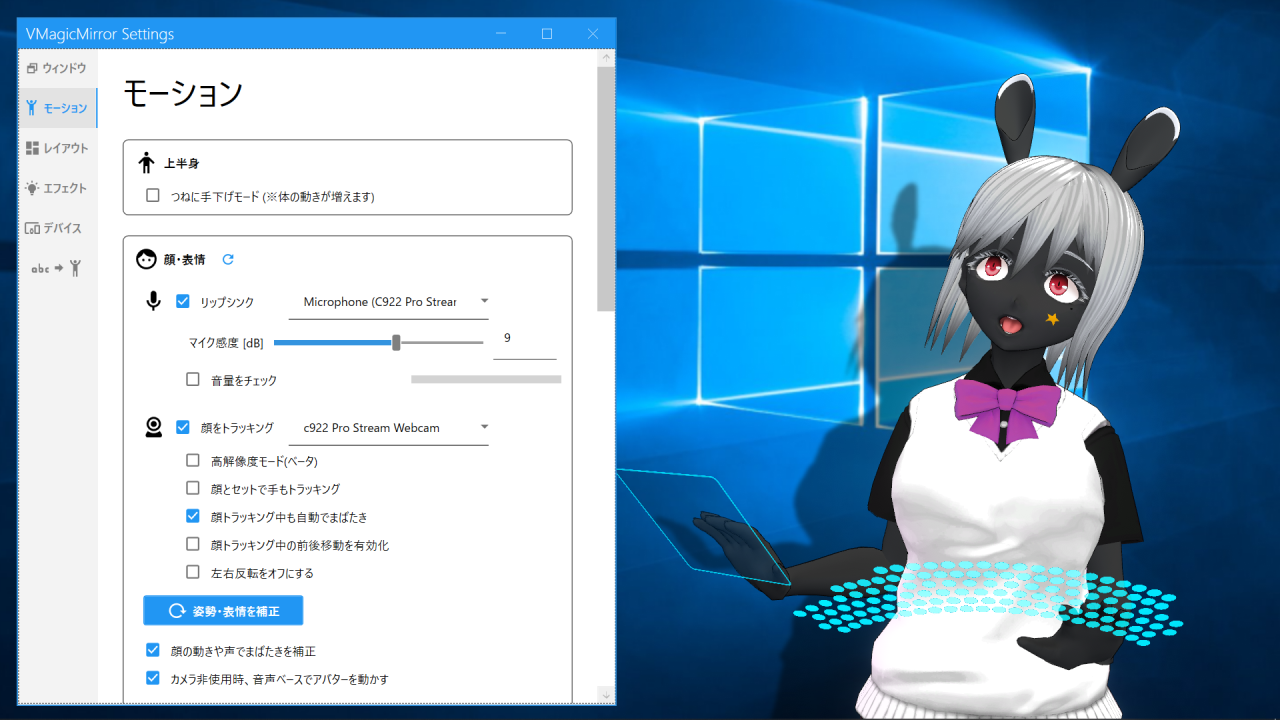
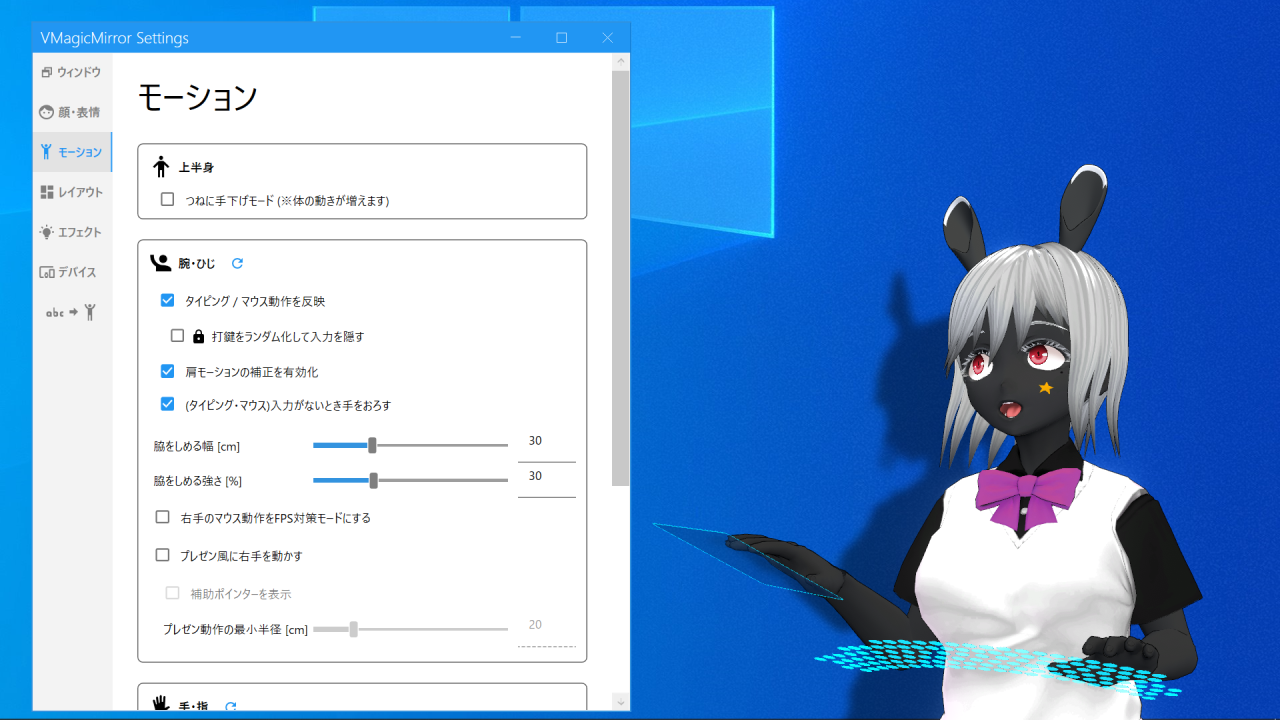
add doc for "face" tab

diff --git a/docs/pages/japanese/docs/motion.md b/docs/pages/japanese/docs/motion.md
@@ -12,54 +12,18 @@ permalink: /docs/motion
 
 {% include docimg.html file="/images/docs/motion_top.png" %}
 
+<div class="note-area" markdown="1">
+
+**NOTE**
+
+v1.6.0以前をお使いの場合、`顔・表情`のメニューから顔に関する設定を編集できます。このメニューの内容については別途[顔・表情](./face)ページをご覧下さい。
+
+</div>
+
 #### 上半身
 {: .doc-sec2 }
 
 `つねに手下げモード`: オンになっていると、腕がつねに下がり、体の動きが大きくなります。`配信`タブにあるのものと同じ機能です。
-
-#### 顔・表情
-{: .doc-sec2 }
-
-`リップシンク`: リップシンク機能に用いるマイクを設定します。コントロールパネルのタブにもある機能です。
-
-`マイク感度[dB]`: マイク入力が小さすぎる場合はプラスの値を指定することで、リップシンクが正しく動作するようになります。`音量をチェック`を使って適正な感度か確認して下さい。
-
-`音量をチェック`: オンにするとマイク音量バーが表示されます。喋っているあいだ、ほぼ緑色で、ときどき赤色になるのが適正な音量です。
-
-`顔をトラッキング`: ウェブカメラによる顔トラッキングに用いるカメラを設定します。コントロールパネルの配信タブにもある機能です。
-
-`高解像度モード`: CPU負荷が上がる代わり、ややトラッキングの反応速度が向上します。v1.5.0時点ではベータ版の、試験的な機能です。
-
-`顔とセットで手もトラッキング`: ウェブカメラによる簡易的なハンドトラッキングを有効にします。コントロールパネルの配信タブにもある機能です。
-
-`顔トラッキング中も自動でまばたき`: デフォルトではオンになっています。オフにすると、画像処理ベースで目の開閉を制御するようになります。
-
-`顔トラッキング中の前後移動を有効化`: オンにすると、キャラクターが前後に動くようになります。顔トラッキングが安定している場合、このチェックをオンにするとキャラクターの動きが更にリッチになります。
-
-`左右反転をオフにする`: チェックボックをオンにすると左右の反転がオフになります。このオプションを切り替えた場合は`姿勢・表情を補正`ボタンを押すようにして下さい。
-
-`姿勢・表情を補正`: 押すことで現在のカメラに映っている姿勢でキャリブレーションします。コントロールパネルの配信タブにもある機能です。
-
-`顔の動きや声でまばたき補正`: 自動まばたきが有効なときにこのチェックをオンにすると、首をすばやく動かしたときや、発話の区切り目にあわせて高確率でまばたき行う、自然な補正が適用されます。
-
-`カメラ非使用時、音声ベースでアバターを動かす`: webカメラもiOS連携も使用していないとき、このチェックをオンにすると、マイクでの音声入力に合わせてアバターがそれらしく動きます。カメラのない環境や、PC負荷を抑えたいケースで使用します。
-
-`視線の動き`: 視線をどう動かすか選択します。コントロールパネルの配信タブにもある機能です。`マウス`を選択すると、キャラクターがマウスポインターの方向を見つめます。`固定`ではマウスを無視し、基本的に正面を向きます。`ユーザー`選択は`固定`に似ていますが、`フリーカメラモード`でキャラクターの向きを正面向き以外にしたときも、なるべくモニターの正面方向(つまりあなた自身)を見つめるように動きます。
-
-`目の動きの大きさ[%]`: マウス追尾などで視線を動かすときの、眼球運動のスケールを設定します。VRoidモデルではデフォルト値(100%)を推奨しています。目ボーンがあるにもかかわらずモデルの目が動かない場合、大きめの値に調整してください。
-
-`Funブレンドのデフォルト値[%]`: ふだんの表情に`Fun`ブレンドシェイプを適用することで、やや笑顔の状態にするパラメータです。大きくするほど普段から笑顔になりますが、キャラクターによってはまばたきやリップシンクの動作と組み合わせたとき不自然になります。その場合は小さな値にします。
-
-`眉毛(開いてカスタマイズ)`: この機能はv1.5.0で廃止された機能です。通常はカスタム不要な、高度な設定です。独自に作成したVRMで眉毛をうまく動かしたい場合や、眉毛の動きが大きすぎたり、小さすぎたりする場合にカスタマイズします。
-
-※ここをカスタマイズするにはVRMの表情を操作する「ブレンドシェイプ」の知識が必要です。もし詳しくない場合、[バーチャルキャストWikiの説明](https://virtualcast.jp/wiki/doku.php?id=%E3%83%A2%E3%83%87%E3%83%AB%E4%BD%9C%E6%88%90:%E3%83%96%E3%83%AC%E3%83%B3%E3%83%89%E3%82%B7%E3%82%A7%E3%82%A4%E3%83%97%E8%A8%AD%E5%AE%9A)に記載の`ブレンドシェイプの値設定`などをご覧下さい。
-
-1. `左眉上げ`: 左眉、あるいは両方の眉を上げるブレンドシェイプを指定します。
-2. `左眉下げ`: 左眉、あるいは両方の眉を下げるブレンドシェイプを指定します。
-3. `左右で別々のキーを使う`: 右と左の眉が別々に動かせるモデルの場合、チェックをオンにします。
-4. `右眉上げ`: 右眉を上げるブレンドシェイプを指定します。
-5. `右眉下げ`: 右眉を下げるブレンドシェイプを指定します。
-6. `眉上げスケール [%]`と`眉下げスケール [%]`: 眉の上下の動きの大きさです。誇張したい場合は大きめの値を、大きくしすぎると不自然になる場合は小さめの値を指定します。
 
 #### 腕・ひじ
 {: .doc-sec2 }

diff --git a/docs/pages/japanese/docs/face.md b/docs/pages/japanese/docs/face.md
@@ -1,0 +1,67 @@
+---
+layout: page
+title: Face
+permalink: /docs/face
+---
+
+[English](../en/docs/face)
+
+# 顔・表情
+
+`顔・表情`タブではモーションのうち、とくに顔に関連する調整ができます。
+
+{% include docimg.html file="/images/docs/face_top.png" %}
+
+<div class="note-area" markdown="1">
+
+**NOTE**
+
+このタブはv1.6.1で追加されました。それ以前のバージョンでは、`モーション`タブで顔に関するモーションが設定できます。
+
+</div>
+
+
+#### 基本の設定
+{: .doc-sec2 }
+
+`リップシンク`: リップシンク機能に用いるマイクを設定します。コントロールパネルのタブにもある機能です。
+
+`マイク感度[dB]`: マイク入力が小さすぎる場合はプラスの値を指定することで、リップシンクが正しく動作するようになります。`音量をチェック`を使って適正な感度か確認して下さい。
+
+`音量をチェック`: オンにするとマイク音量バーが表示されます。喋っているあいだ、ほぼ緑色で、ときどき赤色になるのが適正な音量です。
+
+`顔をトラッキング`: ウェブカメラによる顔トラッキングに用いるカメラを設定します。コントロールパネルの配信タブにもある機能です。
+
+`高解像度モード`: CPU負荷が上がる代わり、ややトラッキングの反応速度が向上します。v1.5.0時点ではベータ版の、試験的な機能です。
+
+`顔とセットで手もトラッキング`: ウェブカメラによる簡易的なハンドトラッキングを有効にします。コントロールパネルの配信タブにもある機能です。
+
+`顔トラッキング中も自動でまばたき`: デフォルトではオンになっています。オフにすると、画像処理ベースで目の開閉を制御するようになります。
+
+`顔トラッキング中の前後移動を有効化`: オンにすると、キャラクターが前後に動くようになります。顔トラッキングが安定している場合、このチェックをオンにするとキャラクターの動きが更にリッチになります。
+
+`左右反転をオフにする`: チェックボックをオンにすると左右の反転がオフになります。このオプションを切り替えた場合は`姿勢・表情を補正`ボタンを押すようにして下さい。
+
+`姿勢・表情を補正`: 押すことで現在のカメラに映っている姿勢でキャリブレーションします。コントロールパネルの配信タブにもある機能です。
+
+`カメラ非使用時、音声ベースでアバターを動かす`: webカメラもiOS連携も使用していないとき、このチェックをオンにすると、マイクでの音声入力に合わせてアバターがそれらしく動きます。カメラのない環境や、PC負荷を抑えたいケースで使用します。
+
+
+#### 目・視線
+{: .doc-sec2 }
+
+`顔の動きや声でまばたき補正`: 自動まばたきが有効なときにこのチェックをオンにすると、首をすばやく動かしたときや、発話の区切り目にあわせて高確率でまばたき行う、自然な補正が適用されます。
+
+`視線の動き`: 視線をどう動かすか選択します。コントロールパネルの配信タブにもある機能です。`マウス`を選択すると、キャラクターがマウスポインターの方向を見つめます。`固定`ではマウスを無視し、基本的に正面を向きます。`ユーザー`選択は`固定`に似ていますが、`フリーカメラモード`でキャラクターの向きを正面向き以外にしたときも、なるべくモニターの正面方向(つまりあなた自身)を見つめるように動きます。
+
+`目の動きの大きさ[%]`: マウス追尾などで視線を動かすときの、眼球運動のスケールを設定します。VRoidモデルではデフォルト値(100%)を推奨しています。目ボーンがあるにもかかわらずモデルの目が動かない場合、大きめの値に調整してください。
+
+
+#### ブレンドシェイプ
+{: .doc-sec2 }
+
+`Funブレンドのデフォルト値[%]`: ふだんの表情に`Fun`ブレンドシェイプを適用することで、やや笑顔の状態にするパラメータです。大きくするほど普段から笑顔になりますが、キャラクターによってはまばたきやリップシンクの動作と組み合わせたとき不自然になります。その場合は小さな値にします。
+
+`Neutralブレンドシェイプ`: 通常は設定不要ですが、モデルのデフォルト表情を`Neutral`などのブレンドシェイプで調整している場合、そのブレンドシェイプクリップを指定します。ここで指定したクリップと同時にまばたき(`BLINK_L`/`BLINK_R`)やリップシンクも動作することに注意して下さい。
+
+`体型調整ブレンドシェイプ`: 通常は設定不要ですが、モデルの体格や輪郭をブレンドシェイプで調整している場合、そのブレンドシェイプクリップを指定します。`Neutralブレンドシェイプ`と異なり、このブレンドシェイプは他の表情が適用された場合も常に適用されることに注意してください。

diff --git a/docs/pages/english/docs/motion.md b/docs/pages/english/docs/motion.md
@@ -13,47 +13,17 @@ lang_prefix: /en/
 
 {% include docimg.html file="/images/docs/motion_top.png" %}
 
+**NOTE**
+
+If you use v1.6.0 or older version, then you see `Face` menu in this tab. See [Face](./face) page for the detail.
+
+</div>
+
+
 #### Upper Body
 {: .doc-sec2 }
 
 `Always-Hands-Down Mode`: Turn on to force both arms always on. This mode increases body translate motion. This check is same as the one in `Streaming` tab.
-
-#### Face
-{: .doc-sec2 }
-
-`LypSync`: Choose Microphone to use lip sync (viseme) feature. Available in Streaming tab.
-
-`Sensitivity [dB]`: Specify plus value when the microphone input is too small, to obtain good result for lipsync.
-
-`Show Volume`: Turn on to see the input volume. Adjust `Sensitivity` such that, the volume bar is green and sometimes red during talking.
-
-`Track Face`: Choose WebCam to use face tracking feature. Available in Streaming tab.
-
-`High Power Mode`: Get more quick face tracking result, while getting higher CPU load. In v1.5.0 it is an experimental feature.
-
-`Enable image based hand tracking`: Turn on to use camera image based minimal hand tracking. Available in Streaming tab.
-
-`Auto blink during face tracking`: Checked by default, and by turn off it, character blinks based on image processing.
-
-`Enable forward / backward motion`: Check to see horizontal forward / backward motion.
-
-`Disable Horizontal Flip`: Check to disable horizontal flip of motion. After changing this option press `Calibrate position` to calibrate.
-
-`Calibrate Position`: Press to calibrate the position by current user position captured by web camera.
-
-`Blink adjust by head motion and lip sync`: Check to enable auto blink action, when the avatar moves head quickly or detect the end of speech by microphone.
-
-`Voice based motion when webcam not used`: When image based head tracking is not used, avatar moves automatically by voice input.
-
-`Eye Look Target`: Select where the character look to. Available in Streaming tab. Select `Mouse` to makes the character look at the orientation mouse pointer exists. Select `Fixed` to fix head motion except face tracking. `User` is similar to `Fixed`, but different when the character body does not face straight to the monitor, by `Free Camera Mode`. In this case `User` makes the character looks head to straight to monitor (in other word, keeps to look you).
-
-`Eye Motion Scale[%]`: Set how eye (eye bone) moves by mouse gaze, or by ExTracker. Recommend default (100%) for VRoid model. If avatar eyes motion is too small, try larger value.
-
-`Default Fun Blend Shape [%]`: Specifies the default fun expression rate. As the value increases the character will become always smile, but some character's facial expression will be unnatural when combined to blink or other face motions. In those cases, decrease the value.
-
-`Eyebrow (Open to Customize)`: This feature is removed in v1.5.0. This feature provides advanced setting and normally you do not need modify them. However this option will be helpful if you have original VRM and want to move the eyebrow, or in case the eyebrow motion is too big or too small. 
-
-* This section requires the knowledge about `BlendShape` to control VRM facial expression. If you do not know well, please refer to [Virtual Cast Wiki](https://virtualcast.jp/wiki/doku.php?id=%E3%83%A2%E3%83%87%E3%83%AB%E4%BD%9C%E6%88%90:%E3%83%96%E3%83%AC%E3%83%B3%E3%83%89%E3%82%B7%E3%82%A7%E3%82%A4%E3%83%97%E8%A8%AD%E5%AE%9A) and see latter section's image. You will see the name like `mouth_a` or `mouth_b`. This is BlendShape. And you can specify the name of BlendShape to move eyebrow, by sliding each shape in Unity Editor.
 
 #### Arm
 {: .doc-sec2 }

diff --git a/docs/pages/english/docs/face.md b/docs/pages/english/docs/face.md
@@ -1,0 +1,67 @@
+---
+layout: page
+title: Face
+permalink: /en/docs/face
+lang_prefix: /en/
+---
+
+[Japanese](../../docs/face)
+
+# Face
+
+`Face` tab support motion setting especially about face.
+
+{% include docimg.html file="/images/docs/face_top.png" %}
+
+<div class="note-area" markdown="1">
+
+**NOTE**
+
+This tab is added in v1.6.1. If you use older version, you can see most of these options in `Motion` tab `Face` menu.
+
+</div>
+
+
+#### Basic Settings
+{: .doc-sec2 }
+
+`LypSync`: Choose Microphone to use lip sync (viseme) feature. Available in Streaming tab.
+
+`Sensitivity [dB]`: Specify plus value when the microphone input is too small, to obtain good result for lipsync.
+
+`Show Volume`: Turn on to see the input volume. Adjust `Sensitivity` such that, the volume bar is green and sometimes red during talking.
+
+`Track Face`: Choose WebCam to use face tracking feature. Available in Streaming tab.
+
+`High Power Mode`: Get more quick face tracking result, while getting higher CPU load. In v1.5.0 it is an experimental feature.
+
+`Enable image based hand tracking`: Turn on to use camera image based minimal hand tracking. Available in Streaming tab.
+
+`Auto blink during face tracking`: Checked by default, and by turn off it, character blinks based on image processing.
+
+`Enable forward / backward motion`: Check to see horizontal forward / backward motion.
+
+`Disable Horizontal Flip`: Check to disable horizontal flip of motion. After changing this option press `Calibrate position` to calibrate.
+
+`Calibrate Position`: Press to calibrate the position by current user position captured by web camera.
+
+`Voice based motion when webcam not used`: When image based head tracking is not used, avatar moves automatically by voice input.
+
+
+#### Eye
+{: .doc-sec2 }
+
+`Blink adjust by head motion and lip sync`: Check to enable auto blink action, when the avatar moves head quickly or detect the end of speech by microphone.
+
+`Eye Look Target`: Select where the character look to. Available in Streaming tab. Select `Mouse` to makes the character look at the orientation mouse pointer exists. Select `Fixed` to fix head motion except face tracking. `User` is similar to `Fixed`, but different when the character body does not face straight to the monitor, by `Free Camera Mode`. In this case `User` makes the character looks head to straight to monitor (in other word, keeps to look you).
+
+`Eye Motion Scale[%]`: Set how eye (eye bone) moves by mouse gaze, or by ExTracker. Recommend default (100%) for VRoid model. If avatar eyes motion is too small, try larger value.
+
+#### BlendShape
+{: .doc-sec2 }
+
+`Default Fun Blend Shape [%]`: Specifies the default fun expression rate. As the value increases the character will become always smile, but some character's facial expression will be unnatural when combined to blink or other face motions. In those cases, decrease the value.
+
+`Default Face BlendShape`: In most case you should leave it empty. If your model needs some default expression to be applied, then select the BlendShape clip. Notice that the selected blendshape and `BLINK_L`, `BLINK_R`, lipsync, and perfect sync will run at the same time.
+
+`Offset BlendShape`: In most case you should leave it empty. If your model has some BlendShapeClip which must be applied always to adjust body or face shape, then select it. 

diff --git a/docs/pages/japanese/docs.md b/docs/pages/japanese/docs.md
@@ -34,6 +34,7 @@ v1.1.0の時点ではiOSアプリの`iFacialMocap`をサポートしています
 | カテゴリ名                       | できること                                           |
 |:--------------------------------:|:-----------------------------------------------------|
 | [ウィンドウ](./docs/window)      | キャラクター表示ウィンドウの制御                     |
+| [顔・表情](./docs/face)          | [外部トラッキング](./docs/external_tracker)を除く、キャラクターの顔の動きの調整 |
 | [モーション](./docs/motion)      | キャラクターの体型や動き方にあわせた調整             |
 | [レイアウト](./docs/layout)      | カメラ、キーボード、タッチパッド、ゲームパッドの配置 |
 | [エフェクト](./docs/effects)     | ライト、影、Bloom、風の調整                          |

diff --git a/docs/pages/english/docs.md b/docs/pages/english/docs.md
@@ -37,6 +37,7 @@ Setting Window consists of 6 tabs.
 | Tab Name                         | Description                                                   |
 |:--------------------------------:|:--------------------------------------------------------------|
 | [Window](./docs/window)          | Control character window                                      |
+| [Face](./docs/face)              | Adjust facial motion setting except [External Tracker App](./docs/external_tracker).      |
 | [Motion](./docs/motion)          | Adjust character size related parameters and motion scale     |
 | [Layout](./docs/layout)          | Layout of camera and devices, and device based motion setting |
 | [Effects](./docs/effects)        | Light, shadow, bloom, and wind                                |
